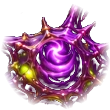
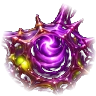
Enjambre: red de células más pequeña (60% en vez de 68%), sin deformar
Claude-Session: https://claude.ai/code/session_01F2cMaVP1jXDcnxjASp53K6

diff --git a/enjambre/index.html b/enjambre/index.html
@@ -1425,8 +1425,8 @@ function tejidoDraw(t){
   gl.drawArrays(gl.TRIANGLE_STRIP,0,4);
 }
 /* ============ maqueta: la imagen de Andreé de fondo y la colonia real encima (solo en pantallas anchas) ============ */
-const MQ={W:1774,H:887,R:{circ: 58, cal: 54, vrel: 37, mcirc: 51, elec: 58, gauss: 61, mag: 54, ene: 68, grav: 37, ter1: 58, din: 65, tmp: 58, cin: 41, mom: 44, rot: 61, osc: 37, ter2: 58, flu: 65, equi: 37, ato: 38},
-  pos:{circ:[888,177,95],cal:[786,327,249],vrel:[970,320,259],mcirc:[1133,283,208],elec:[1289,232,150],gauss:[1452,184,99],mag:[1616,177,99],ene:[1425,361,269],grav:[1602,327,266],ter1:[650,415,333],din:[1167,429,340],tmp:[840,456,374],cin:[1017,436,371],mom:[1473,490,422],rot:[1289,524,439],osc:[1099,589,528],ter2:[749,602,520],flu:[925,613,524],equi:[1585,630,569],ato:[1697,538,476]},
+const MQ={W:1774,H:887,R:{circ: 51, cal: 48, vrel: 33, mcirc: 45, elec: 51, gauss: 54, mag: 48, ene: 60, grav: 33, ter1: 51, din: 57, tmp: 51, cin: 36, mom: 39, rot: 54, osc: 33, ter2: 51, flu: 57, equi: 33, ato: 34},
+  pos:{circ:[940,193,118],cal:[850,325,253],vrel:[1012,319,262],mcirc:[1156,286,217],elec:[1294,241,166],gauss:[1438,199,121],mag:[1582,193,121],ene:[1414,355,271],grav:[1570,325,268],ter1:[730,403,328],din:[1186,415,334],tmp:[898,439,364],cin:[1054,421,361],mom:[1456,469,406],rot:[1294,499,421],osc:[1126,556,499],ter2:[817,568,493],flu:[973,577,496],equi:[1555,592,535],ato:[1654,511,453]},
   tabs:[['hive',333,100],['list',440,90],['inv',537,90],['data',614,34]]};
 function maquetaDraw(){
   const sw=document.getElementById('swarm'); if(!sw) return;
@@ -1476,11 +1476,11 @@ addEventListener('resize',()=>{ clearTimeout(MQ.rz); MQ.rz=setTimeout(maquetaDra
 // ── la maqueta viva: se anima la propia pintura (respiración, remolino de los núcleos, líquido) ──
 // ── la maqueta por objetos: cada pieza de la pintura es su propio recorte (maqueta/objetos/*.webp, objetos.json) ──
 // [id, tipo, x, y, ancho, alto, centro x, centro y, radio, padre] en píxeles de la maqueta (1774×887)
-const MQO=[["celula-circ","celula",816,105,144,144,888,177,58,"","maqueta2/celulas/circ.webp"],["celula-cal","celula",718,258,136,136,786,327,54,"","maqueta2/celulas/cal.webp"],["celula-vrel","celula",923,274,92,92,970,320,37,"","maqueta2/celulas/vrel.webp"],["celula-mcirc","celula",1069,219,126,126,1133,283,51,"","maqueta2/celulas/mcirc.webp"],["celula-elec","celula",1217,159,144,144,1289,232,58,"","maqueta2/celulas/elec.webp"],["celula-gauss","celula",1376,108,152,152,1452,184,61,"","maqueta2/celulas/gauss.webp"],["celula-mag","celula",1547,109,136,136,1616,177,54,"","maqueta2/celulas/mag.webp"],["celula-ene","celula",1340,276,170,170,1425,361,68,"","maqueta2/celulas/ene.webp"],["celula-grav","celula",1556,280,92,92,1602,327,37,"","maqueta2/celulas/grav.webp"],["celula-ter1","celula",578,343,144,144,650,415,58,"","maqueta2/celulas/ter1.webp"],["celula-din","celula",1086,349,160,160,1167,429,65,"","maqueta2/celulas/din.webp"],["celula-tmp","celula",768,384,144,144,840,456,58,"","maqueta2/celulas/tmp.webp"],["celula-cin","celula",966,384,102,102,1017,436,41,"","maqueta2/celulas/cin.webp"],["celula-mom","celula",1417,435,110,110,1473,490,44,"","maqueta2/celulas/mom.webp"],["celula-rot","celula",1213,448,152,152,1289,524,61,"","maqueta2/celulas/rot.webp"],["celula-osc","celula",1052,542,92,92,1099,589,37,"","maqueta2/celulas/osc.webp"],["celula-ter2","celula",676,530,144,144,749,602,58,"","maqueta2/celulas/ter2.webp"],["celula-flu","celula",845,532,160,160,925,613,65,"","maqueta2/celulas/flu.webp"],["celula-equi","celula",1539,583,92,92,1585,630,37,"","maqueta2/celulas/equi.webp"],["celula-ato","celula",1650,490,94,94,1697,538,38,"","maqueta2/celulas/ato.webp"],["volador-1","volador",1069,23,78,45,1110,43,0,""],["volador-2","volador",1005,70,52,40,1032,87,0,""],["volador-3","volador",619,268,49,31,646,283,0,""],["barra","interfaz",0,0,1774,47,887,23,0,""],["evolucion","interfaz",148,742,414,120,355,802,0,""],["contador","interfaz",22,766,100,106,72,819,0,""]];
-const MQL={circ:[888,93],cal:[786,247],vrel:[970,257],mcirc:[1133,206],elec:[1289,148],gauss:[1452,97],mag:[1616,97],ene:[1425,267],grav:[1602,264],ter1:[650,331],din:[1167,338],tmp:[840,372],cin:[1017,369],mom:[1473,420],rot:[1289,437],osc:[1099,526],ter2:[749,518],flu:[925,522],equi:[1585,567],ato:[1697,474]};
+const MQO=[["celula-circ","celula",877,130,126,126,940,193,51,"","maqueta2/celulas/circ.webp"],["celula-cal","celula",790,265,120,120,850,325,48,"","maqueta2/celulas/cal.webp"],["celula-vrel","celula",971,278,82,82,1012,319,33,"","maqueta2/celulas/vrel.webp"],["celula-mcirc","celula",1100,230,112,112,1156,286,45,"","maqueta2/celulas/mcirc.webp"],["celula-elec","celula",1231,178,126,126,1294,241,51,"","maqueta2/celulas/elec.webp"],["celula-gauss","celula",1371,132,134,134,1438,199,54,"","maqueta2/celulas/gauss.webp"],["celula-mag","celula",1522,133,120,120,1582,193,48,"","maqueta2/celulas/mag.webp"],["celula-ene","celula",1339,280,150,150,1414,355,60,"","maqueta2/celulas/ene.webp"],["celula-grav","celula",1529,284,82,82,1570,325,33,"","maqueta2/celulas/grav.webp"],["celula-ter1","celula",667,340,126,126,730,403,51,"","maqueta2/celulas/ter1.webp"],["celula-din","celula",1115,344,142,142,1186,415,57,"","maqueta2/celulas/din.webp"],["celula-tmp","celula",835,376,126,126,898,439,51,"","maqueta2/celulas/tmp.webp"],["celula-cin","celula",1009,376,90,90,1054,421,36,"","maqueta2/celulas/cin.webp"],["celula-mom","celula",1408,421,96,96,1456,469,39,"","maqueta2/celulas/mom.webp"],["celula-rot","celula",1227,432,134,134,1294,499,54,"","maqueta2/celulas/rot.webp"],["celula-osc","celula",1085,515,82,82,1126,556,33,"","maqueta2/celulas/osc.webp"],["celula-ter2","celula",754,505,126,126,817,568,51,"","maqueta2/celulas/ter2.webp"],["celula-flu","celula",902,506,142,142,973,577,57,"","maqueta2/celulas/flu.webp"],["celula-equi","celula",1514,551,82,82,1555,592,33,"","maqueta2/celulas/equi.webp"],["celula-ato","celula",1612,469,84,84,1654,511,34,"","maqueta2/celulas/ato.webp"],["volador-1","volador",1069,23,78,45,1110,43,0,""],["volador-2","volador",1005,70,52,40,1032,87,0,""],["volador-3","volador",619,268,49,31,646,283,0,""],["barra","interfaz",0,0,1774,47,887,23,0,""],["evolucion","interfaz",148,742,414,120,355,802,0,""],["contador","interfaz",22,766,100,106,72,819,0,""]];
+const MQL={circ:[940,116],cal:[850,251],vrel:[1012,260],mcirc:[1156,215],elec:[1294,164],gauss:[1438,119],mag:[1582,119],ene:[1414,269],grav:[1570,266],ter1:[730,326],din:[1186,332],tmp:[898,362],cin:[1054,359],mom:[1456,404],rot:[1294,419],osc:[1126,497],ter2:[817,491],flu:[973,494],equi:[1555,533],ato:[1654,451]};
 const MQV={};
 // modo edición (?editar): arrastra cualquier objeto, rueda = tamaño, doble clic = volver a su sitio. Se guarda en este navegador.
-const MQE_KEY='colmena-maqueta2-objetos';
+const MQE_KEY='colmena-maqueta3-objetos';
 function mqeLee(){ try{ return JSON.parse(localStorage.getItem(MQE_KEY)||'{}'); }catch(e){ return {}; } }
 function mqeAplica(){ const E=mqeLee(); if(!MQV.capa) return;
   MQV.capa.querySelectorAll('.mq-o').forEach(el=>{ const v=E[el.dataset.objeto]||[0,0,1];
